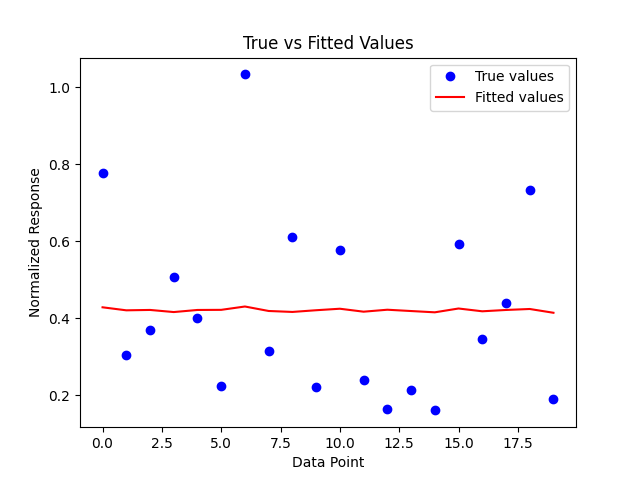
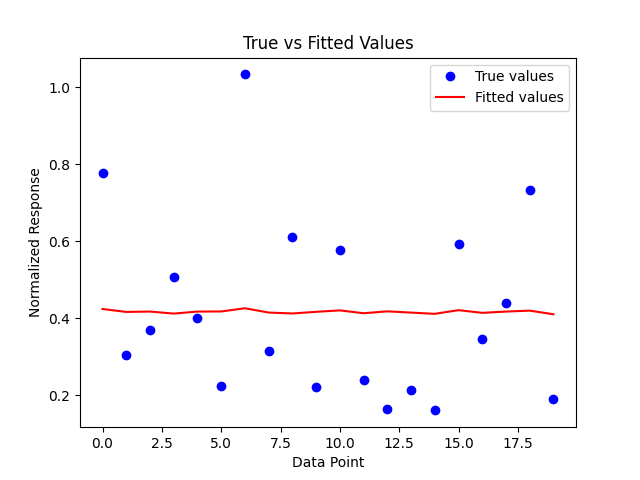
mili

Changed region(s): [[0.1562, 0.625, 0.875, 0.6562]]

diff --git a/Assignments/Assignment1/problem4/2bcc.py b/Assignments/Assignment1/problem4/2bcc.py
@@ -10,7 +10,7 @@ def f(theta, X):
 
 def mean_squared_error(theta, X, y):
     y_pred = f(theta, X)
-    return 1 / (2 * len(y)) * np.sum((y - y_pred) ** 2) 
+    return 1 / (2 * len(y)) * np.sum((y - y_pred) ** 2)  + .01/2*np.linalg.norm(theta)**2
 
 def mse_gradient(theta, X, y):
     y_pred = f(theta, X)
@@ -25,7 +25,7 @@ def mse_gradient(theta, X, y):
     gradients[5] = np.mean(error * X.iloc[:, 1]**2)
 
     
-    return gradients
+    return gradients + .01*theta
 
 # Load the diabetes dataset
 X, y = datasets.load_diabetes(return_X_y=True, as_frame=True)
@@ -62,6 +62,9 @@ while np.linalg.norm(theta - theta_prev) > tolerance:
     iter += 1
 
 print("Optimal Theta:", theta)
+print(mean_squared_error(theta, X_train, y_train))
+print(mean_squared_error(theta, X_train, y_train) - .01/2 * np.linalg.norm(theta)**2)
+
 # print('Iteration %d. MSE: %.6f TOL: %.7f' % (iter, mean_squared_error(theta, X_train, y_train),np.linalg.norm(theta - theta_prev)))
 
 def create_polynomial_features(X):

diff --git a/Assignments/Assignment1/problem4/3bcc.py b/Assignments/Assignment1/problem4/3bcc.py
@@ -37,7 +37,7 @@ X_train_poly = create_polynomial_features(X_train)
 X_train_poly_transpose = X_train_poly.T
 # theta = np.linalg.inv(X_train_poly_transpose.dot(X_train_poly)).dot(X_train_poly_transpose).dot(y_train)
 
-theta = np.linalg.solve(np.matmul(X_train_poly.T, X_train_poly), np.matmul(X_train_poly.T, y_train))
+theta = np.linalg.solve(np.matmul(X_train_poly.T, X_train_poly) + .1*np.eye(X_train_poly.shape[1]), np.matmul(X_train_poly.T, y_train))
 
 print(f"Parameters obtained from least squares: {theta}")
 
